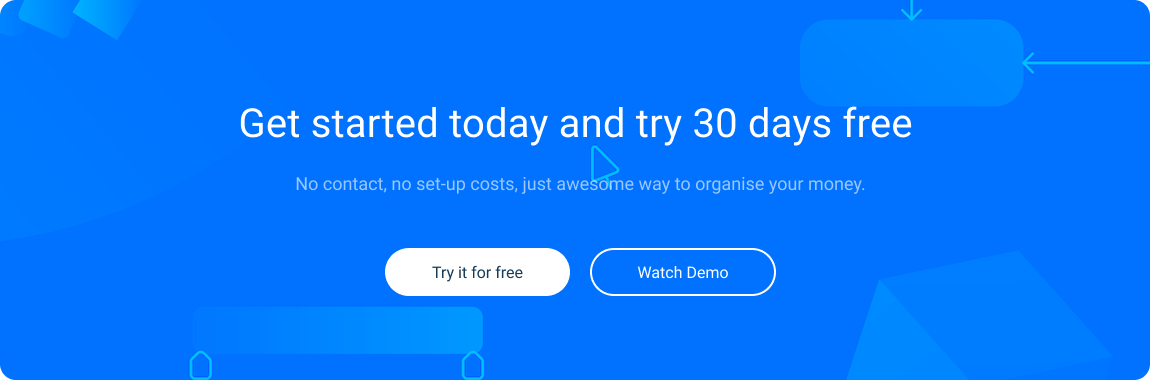
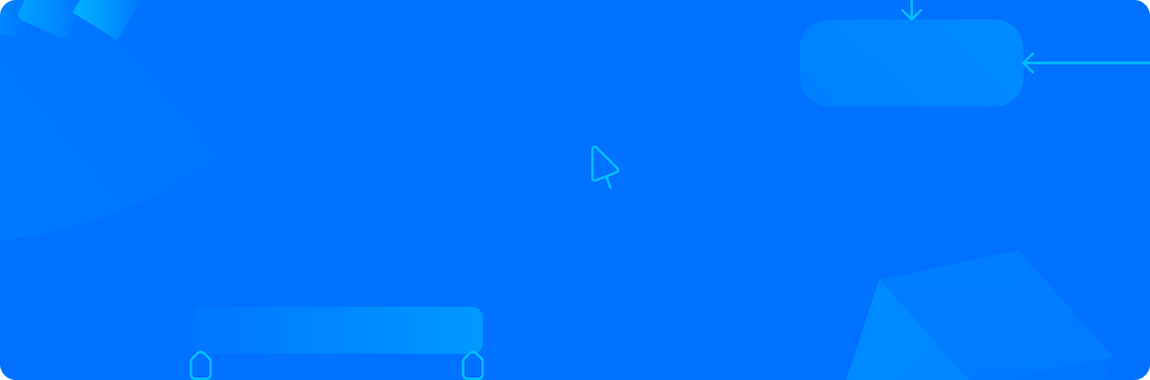
Proposition section done

diff --git a/css/style.css b/css/style.css
@@ -261,6 +261,51 @@ a {
     color: #F04D5D;
 }
 
+/* Proposition section ===================================================================================== */
+.proposition {
+    padding: 200px 0;
+}
+
+.proposition-type {
+    width: 100%;
+    border-radius: 10px;
+    padding: 100px 240px;
+    display: flex;
+    justify-content: center;
+    align-items: center;
+    flex-direction: column;
+    background: url(../img/ad/ad.png) top/cover
+}
+
+.proposition-type__headline {
+    font-size: 40px;
+    color: var(--secondary-color);
+    font-weight: 400;
+}
+
+.proposition-type__desc {
+    font-size: 18px;
+    color: var(--secondary-color);
+    font-weight: 400;
+    margin: 25px 0 50px;
+}
+
+.proposition-type__buttons-wrap {
+    display: grid;
+    grid-template-columns: 1fr 1fr;
+    gap: 20px;
+}
+
+.proposition .btn {
+    border-radius: 50px;
+    background: var(--secondary-color);
+    border: 2px solid var(--secondary-color);
+}
+
+.proposition .btn_active {
+    background: transparent;
+}
+
 /* Utility classes =========================================================== */
 .container {
     width: 100%;

diff --git a/index.html b/index.html
@@ -141,6 +141,19 @@
             </div>
         </div>
     </section>
+    <section class="proposition" id="proposition">
+        <div class="container">
+            <div class="proposition-type">
+                <p class="proposition-type__headline">Get started today and try 30 days free</p>
+                <p class="proposition-type__desc">No contact, no set-up costs, just awesome way to organise your money.
+                </p>
+                <div class="proposition-type__buttons-wrap">
+                    <a href="#" class="btn">Try it for free</a>
+                    <a href="#" class="btn btn_active">Watch demo</a>
+                </div>
+            </div>
+        </div>
+    </section>
 </body>
 
 </html>
